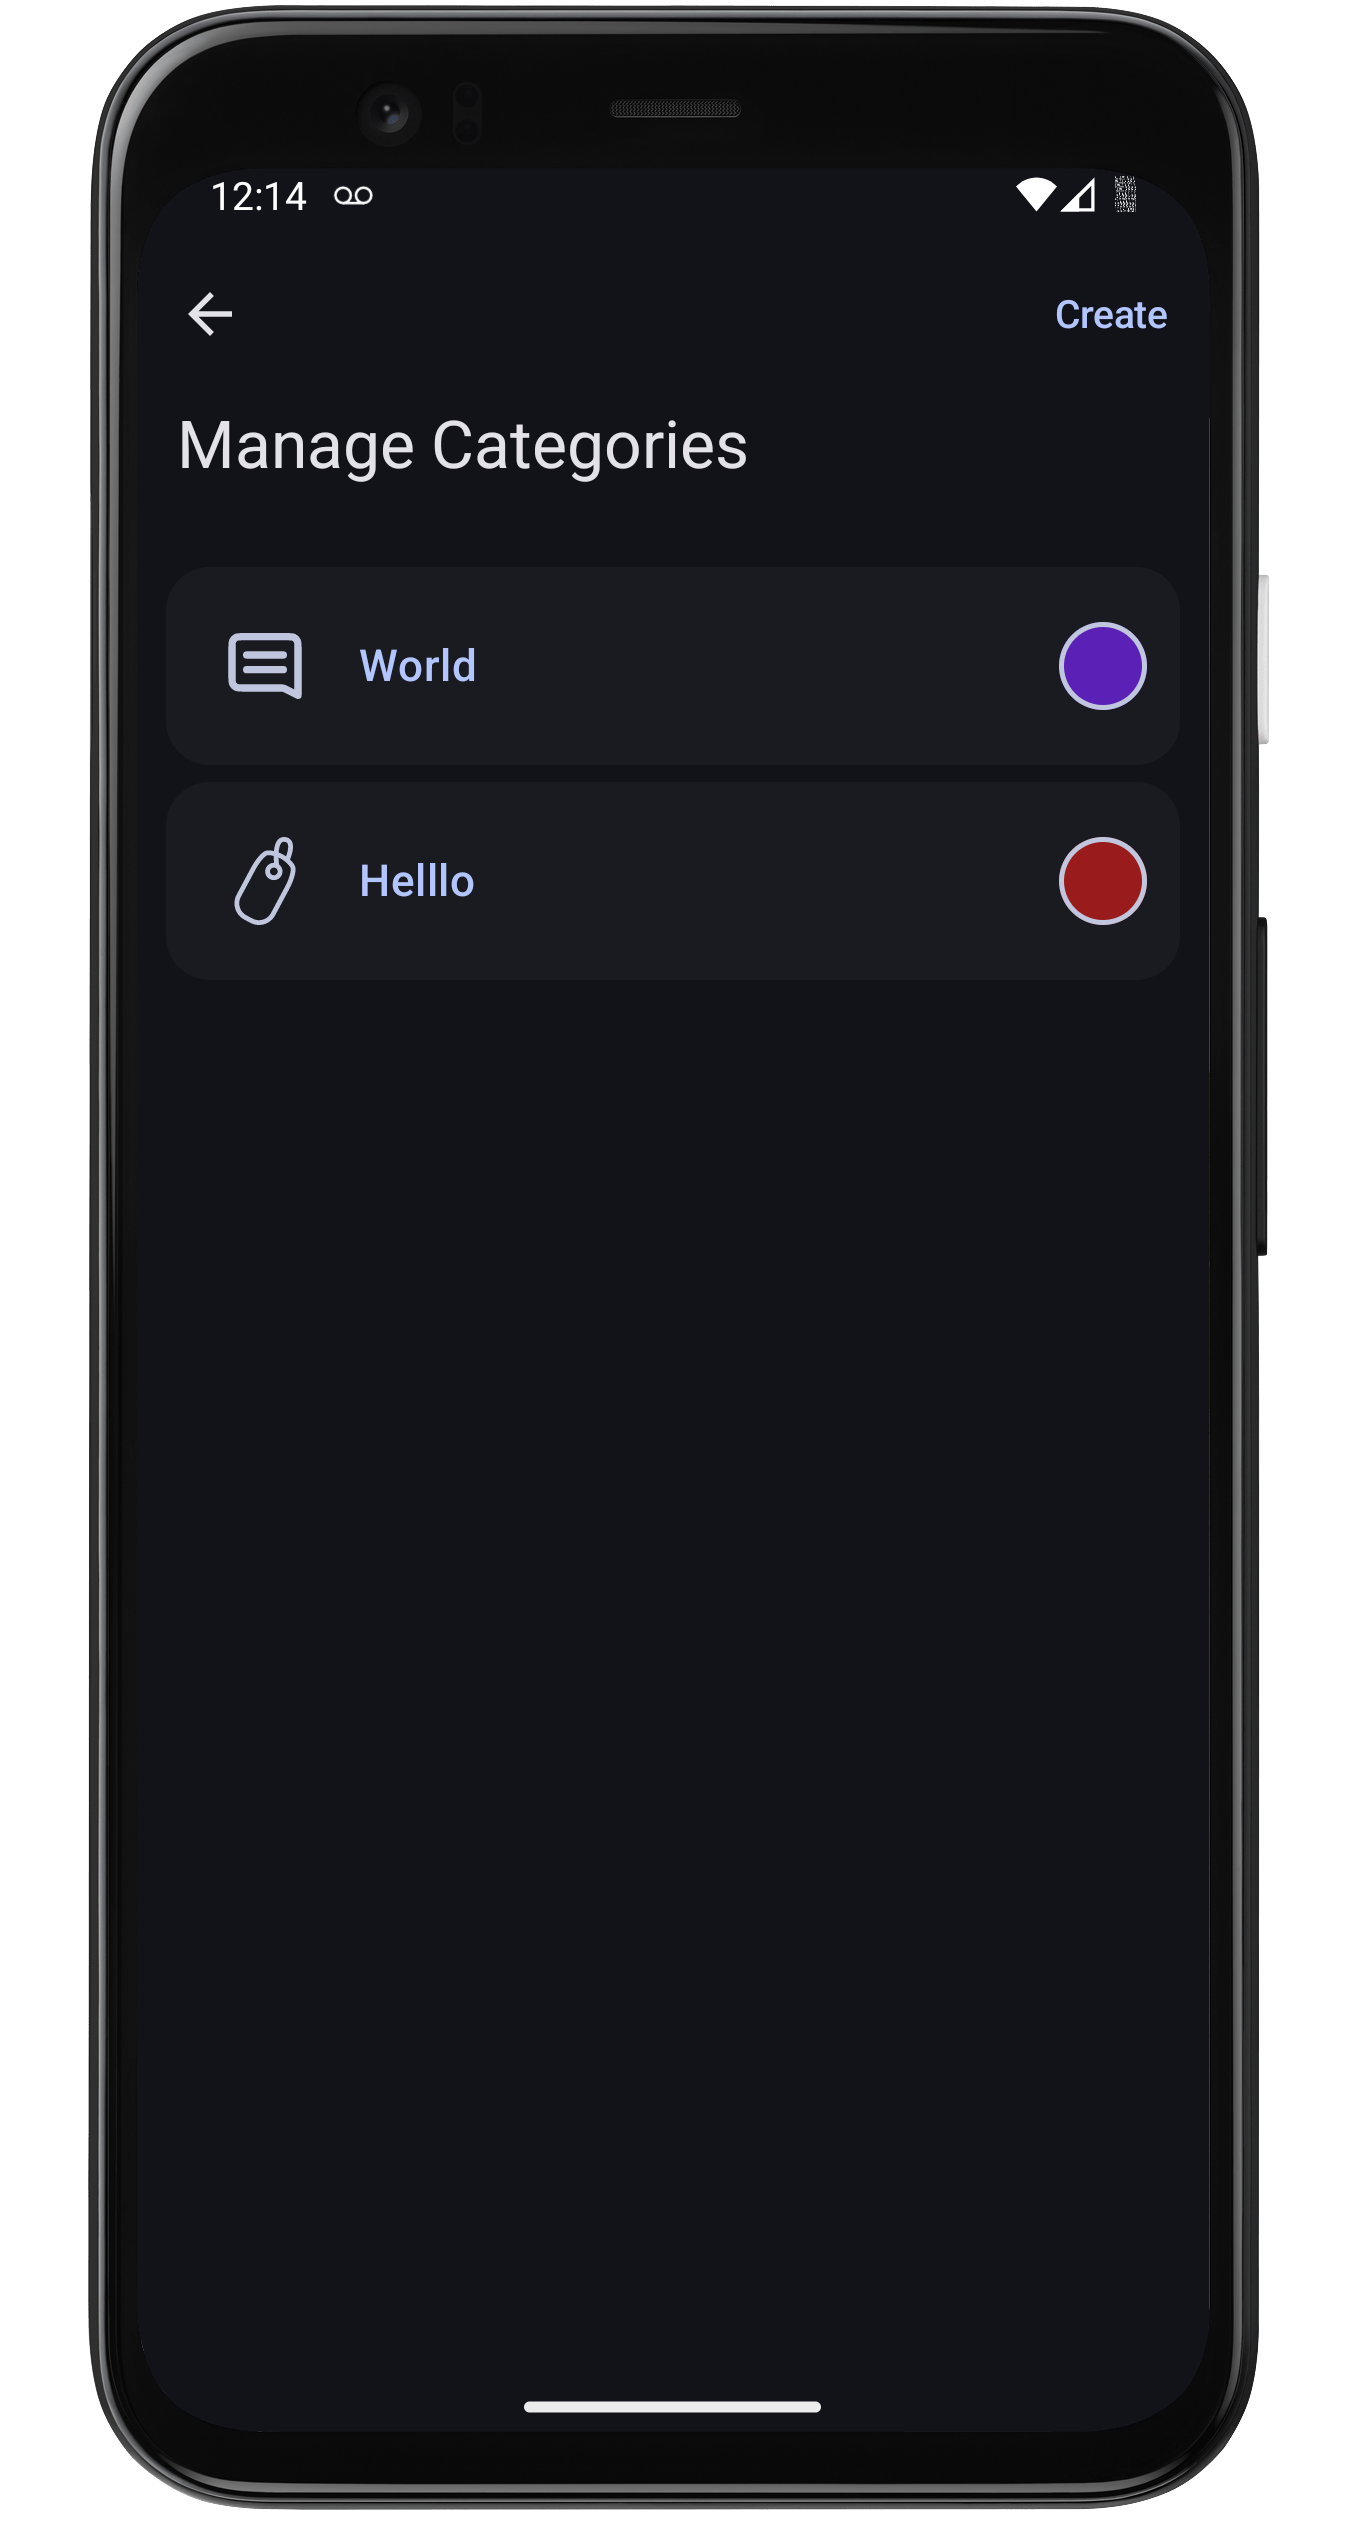
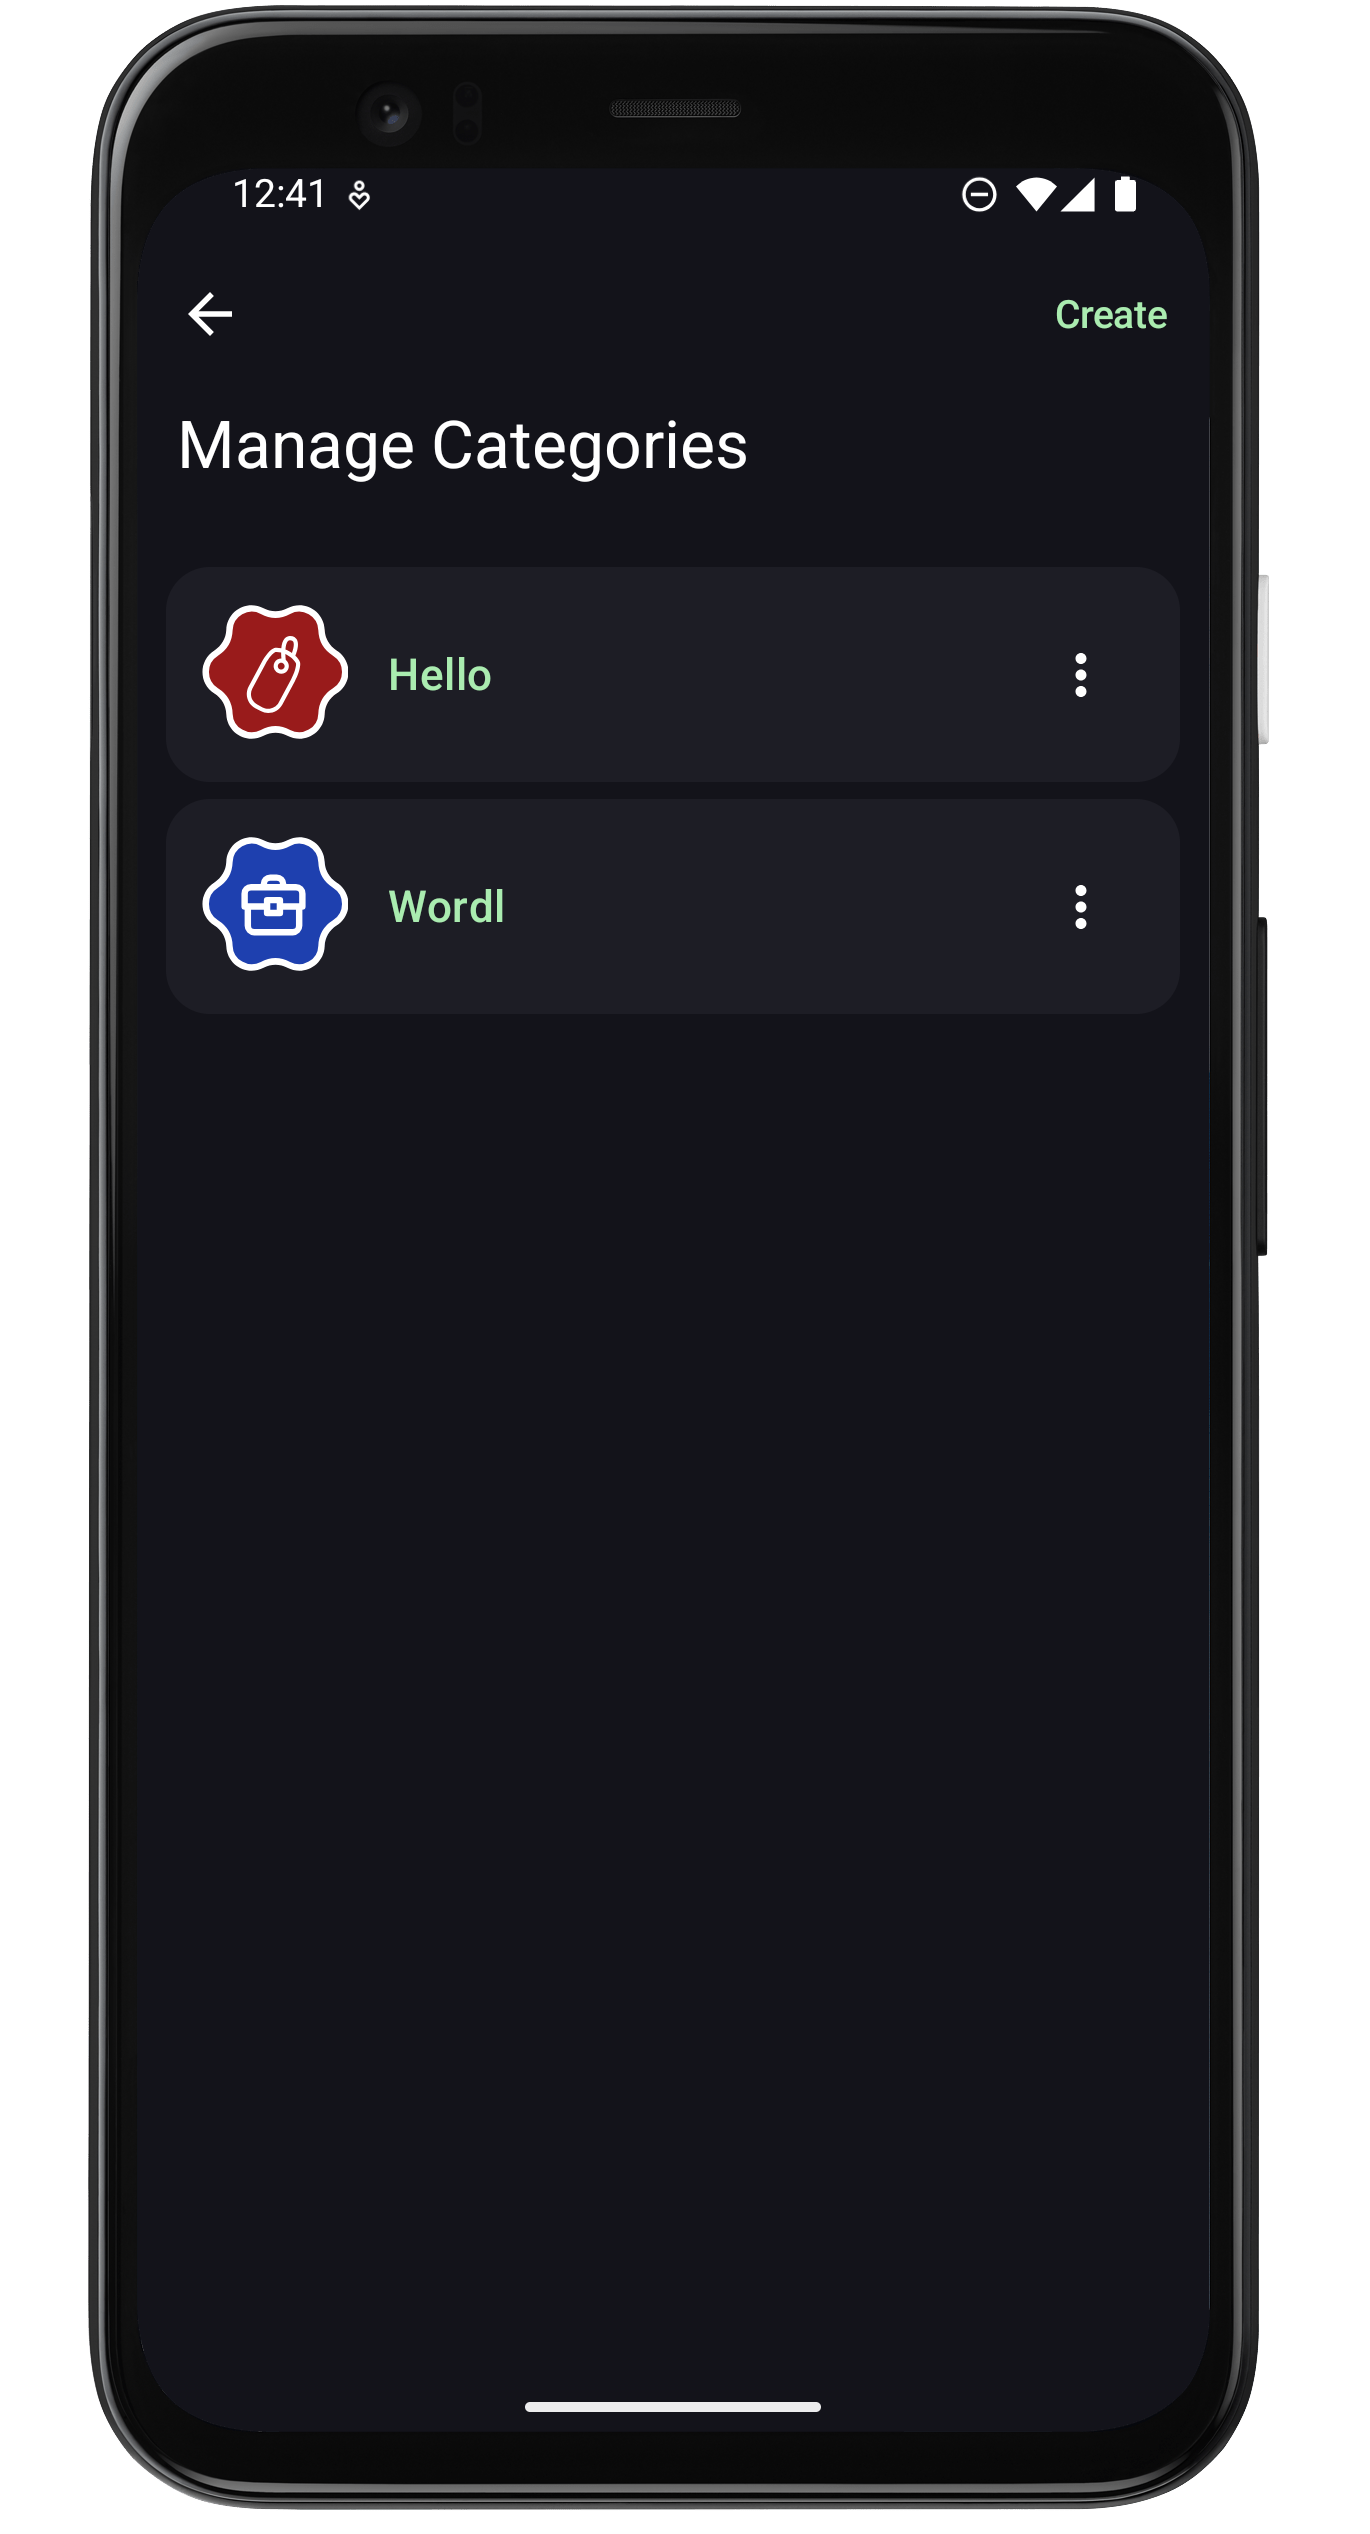
Updated readme and version code Search and categories screen screenshots  attached. Bumped version code to 7 and version name to 1.2.2

diff --git a/README.md b/README.md
@@ -6,8 +6,7 @@ recordings.With a clean and intuitive interface, this app offers a seamless user
 ## 💁 About
 
 A fully functioned recorder app with an ability to record over multiple media codec like **acc**,*
-*amr**,**opus** over different quality. The app can continue its recording in the background, so
-you
+*amr**,**opus** over different quality. The app can continue its recording in the background, so you
 never miss a moment. Once the recording, you can easily manage your files within the app.
 There `built-in player`, you can listen to your recordings directly within the app or use the
 convenient media notification for playback control.
@@ -47,6 +46,7 @@ These are some screen shorts for the app
    <img src="./screenshots/recordings_framed.png" width="24%" />
    <img src="./screenshots/player_base_framed.png" width="24%" />
    <img src="./screenshots/app_settings_framed.png" width="24%" />
+   <img src="./screenshots/recordings_search_screen_framed.png" width="24%">
    <img src="./screenshots/recording_categories_framed.png" width="24%" />
    <img src="./screenshots/player_bookmarks_framed.png" width="24%" />
    <img src="./screenshots/app_widget_preview_framed.png" width="24%" />
@@ -70,6 +70,16 @@ playing stuff.
 - :world_map: **Location** : Some mediacodec like `acc` and `three_gpp` can add a additional
   location data with the recording.You can view this location data on other devices which can read
   metadata.
+
+## :new: What's new
+
+The current version have these new changes added to the app
+
+- **Search recordings** Finding old recording was a mess thus a search feature is added, user can
+  search via `time`, `category` and obviously via name
+
+- **Transitions** Added some shared bounds transition to the app,animations like
+  `containter-transform` is added.
 
 ## :hammer_and_wrench: Getting Started
 
